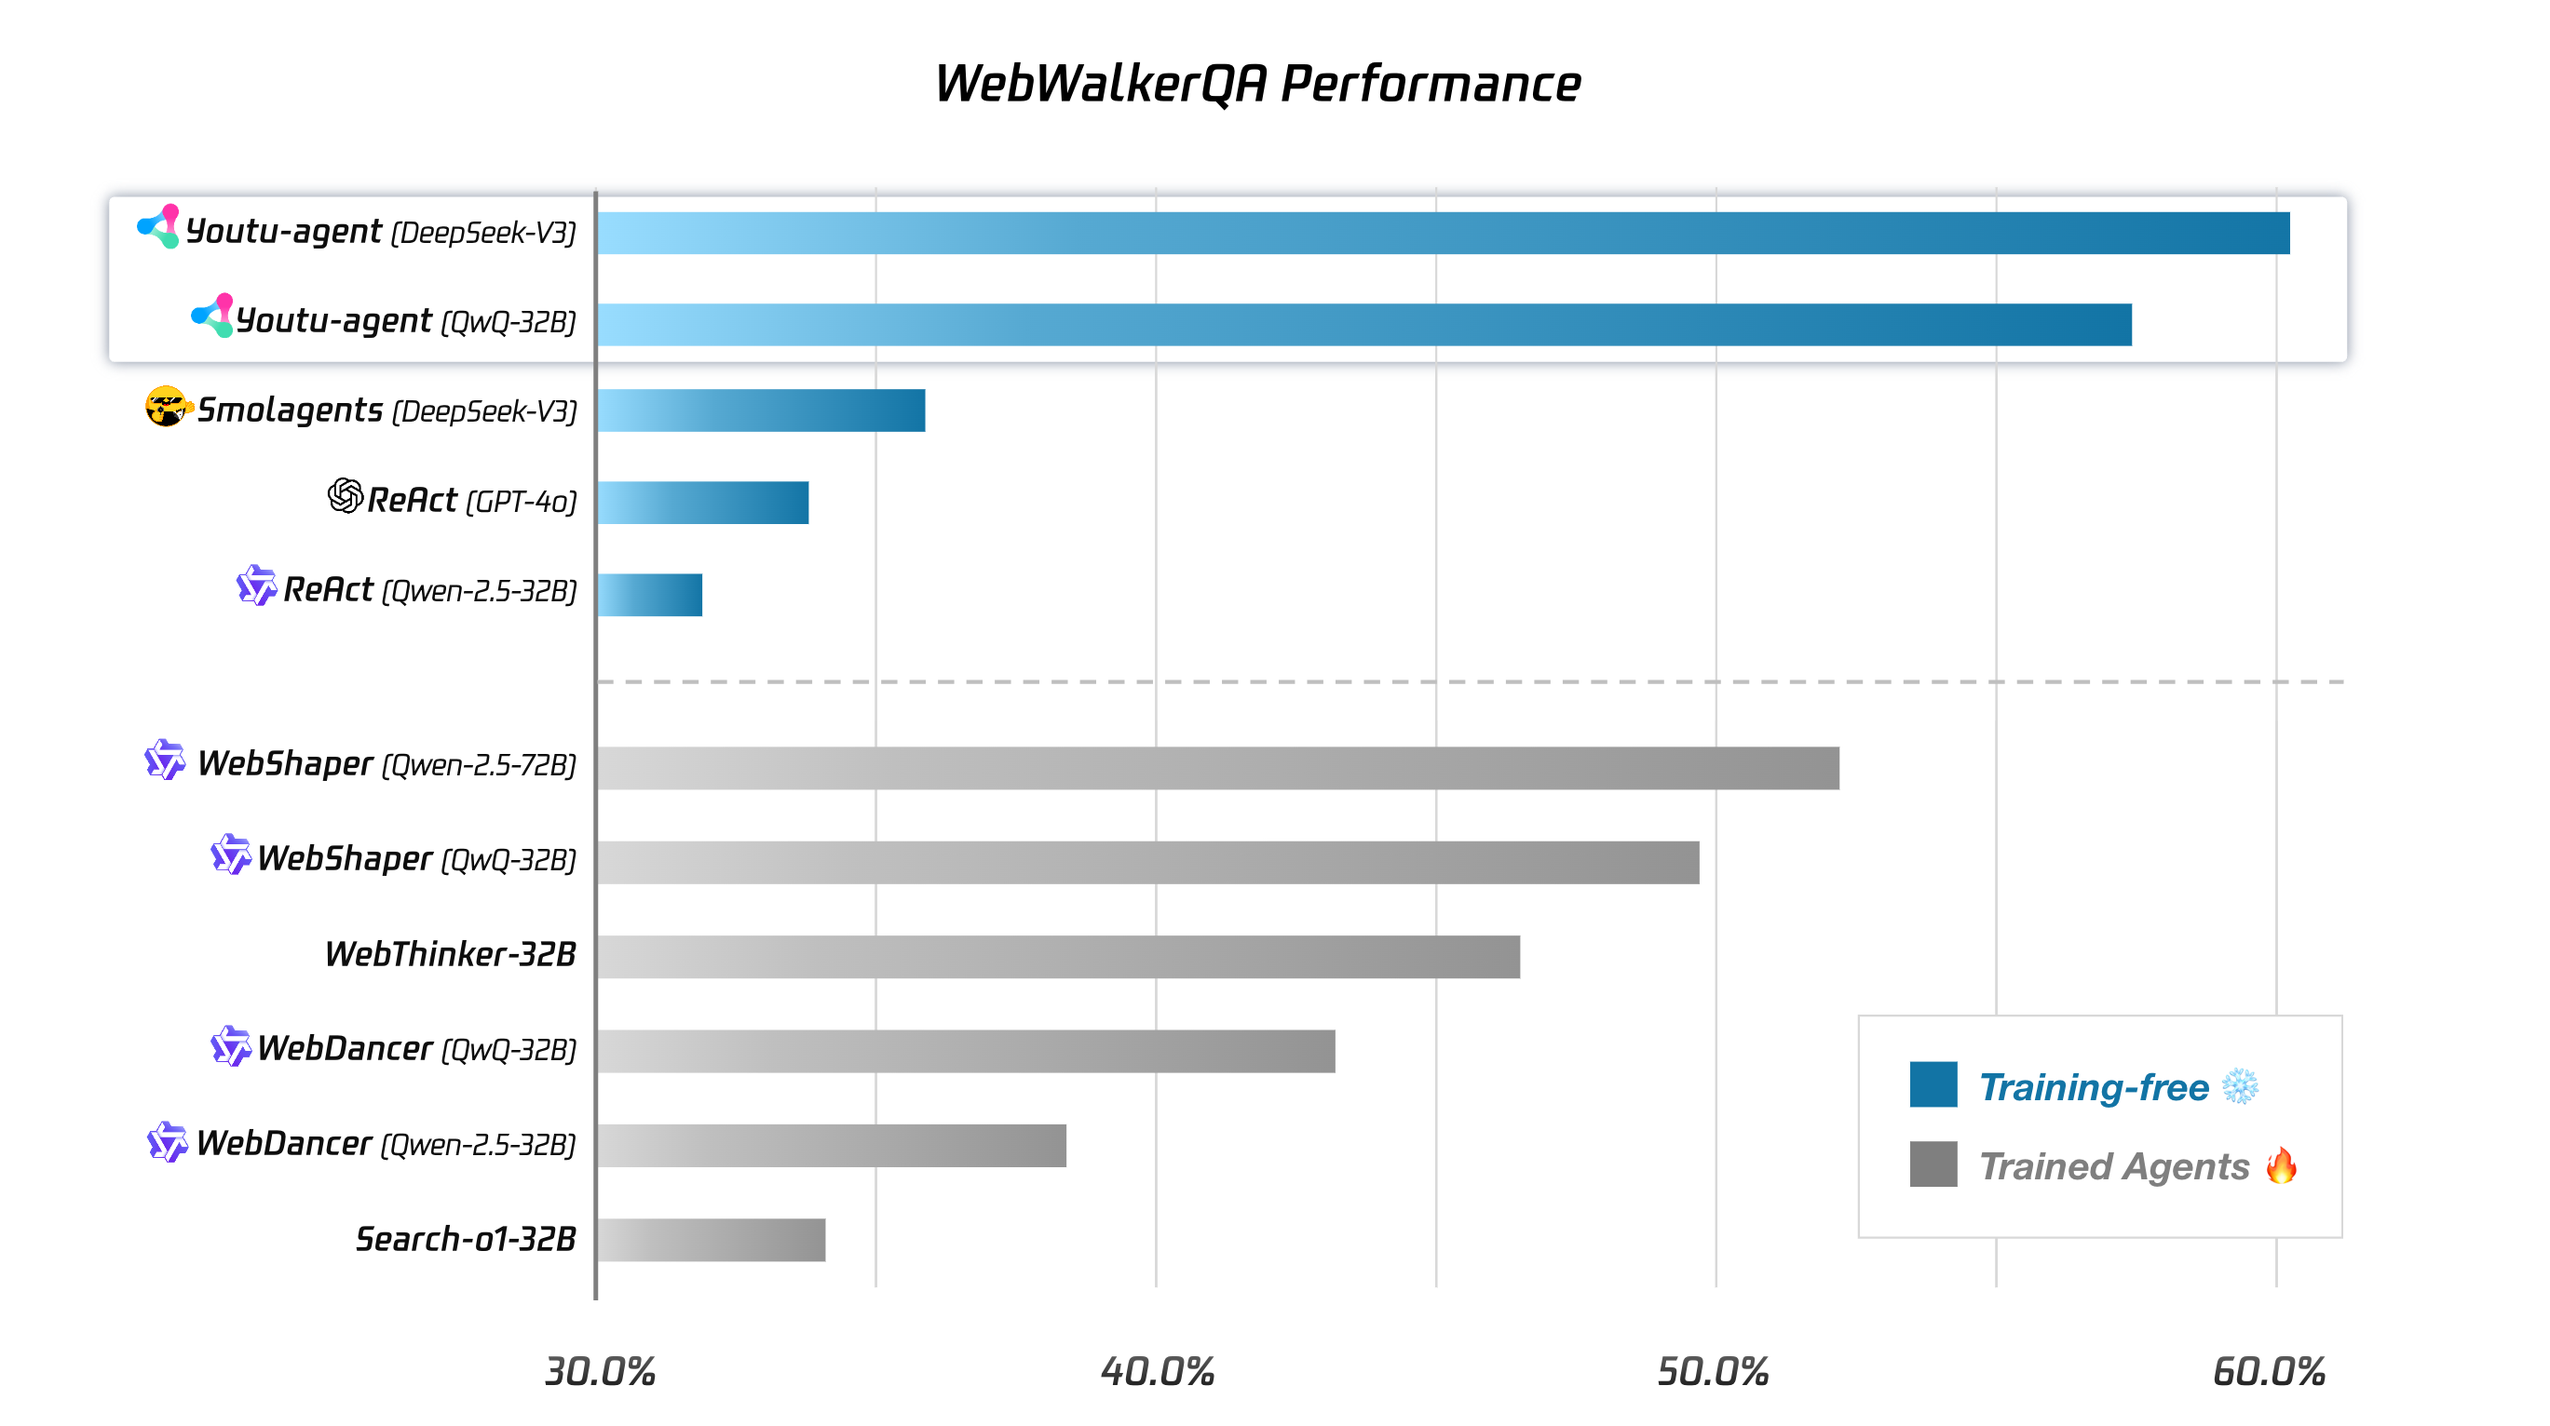
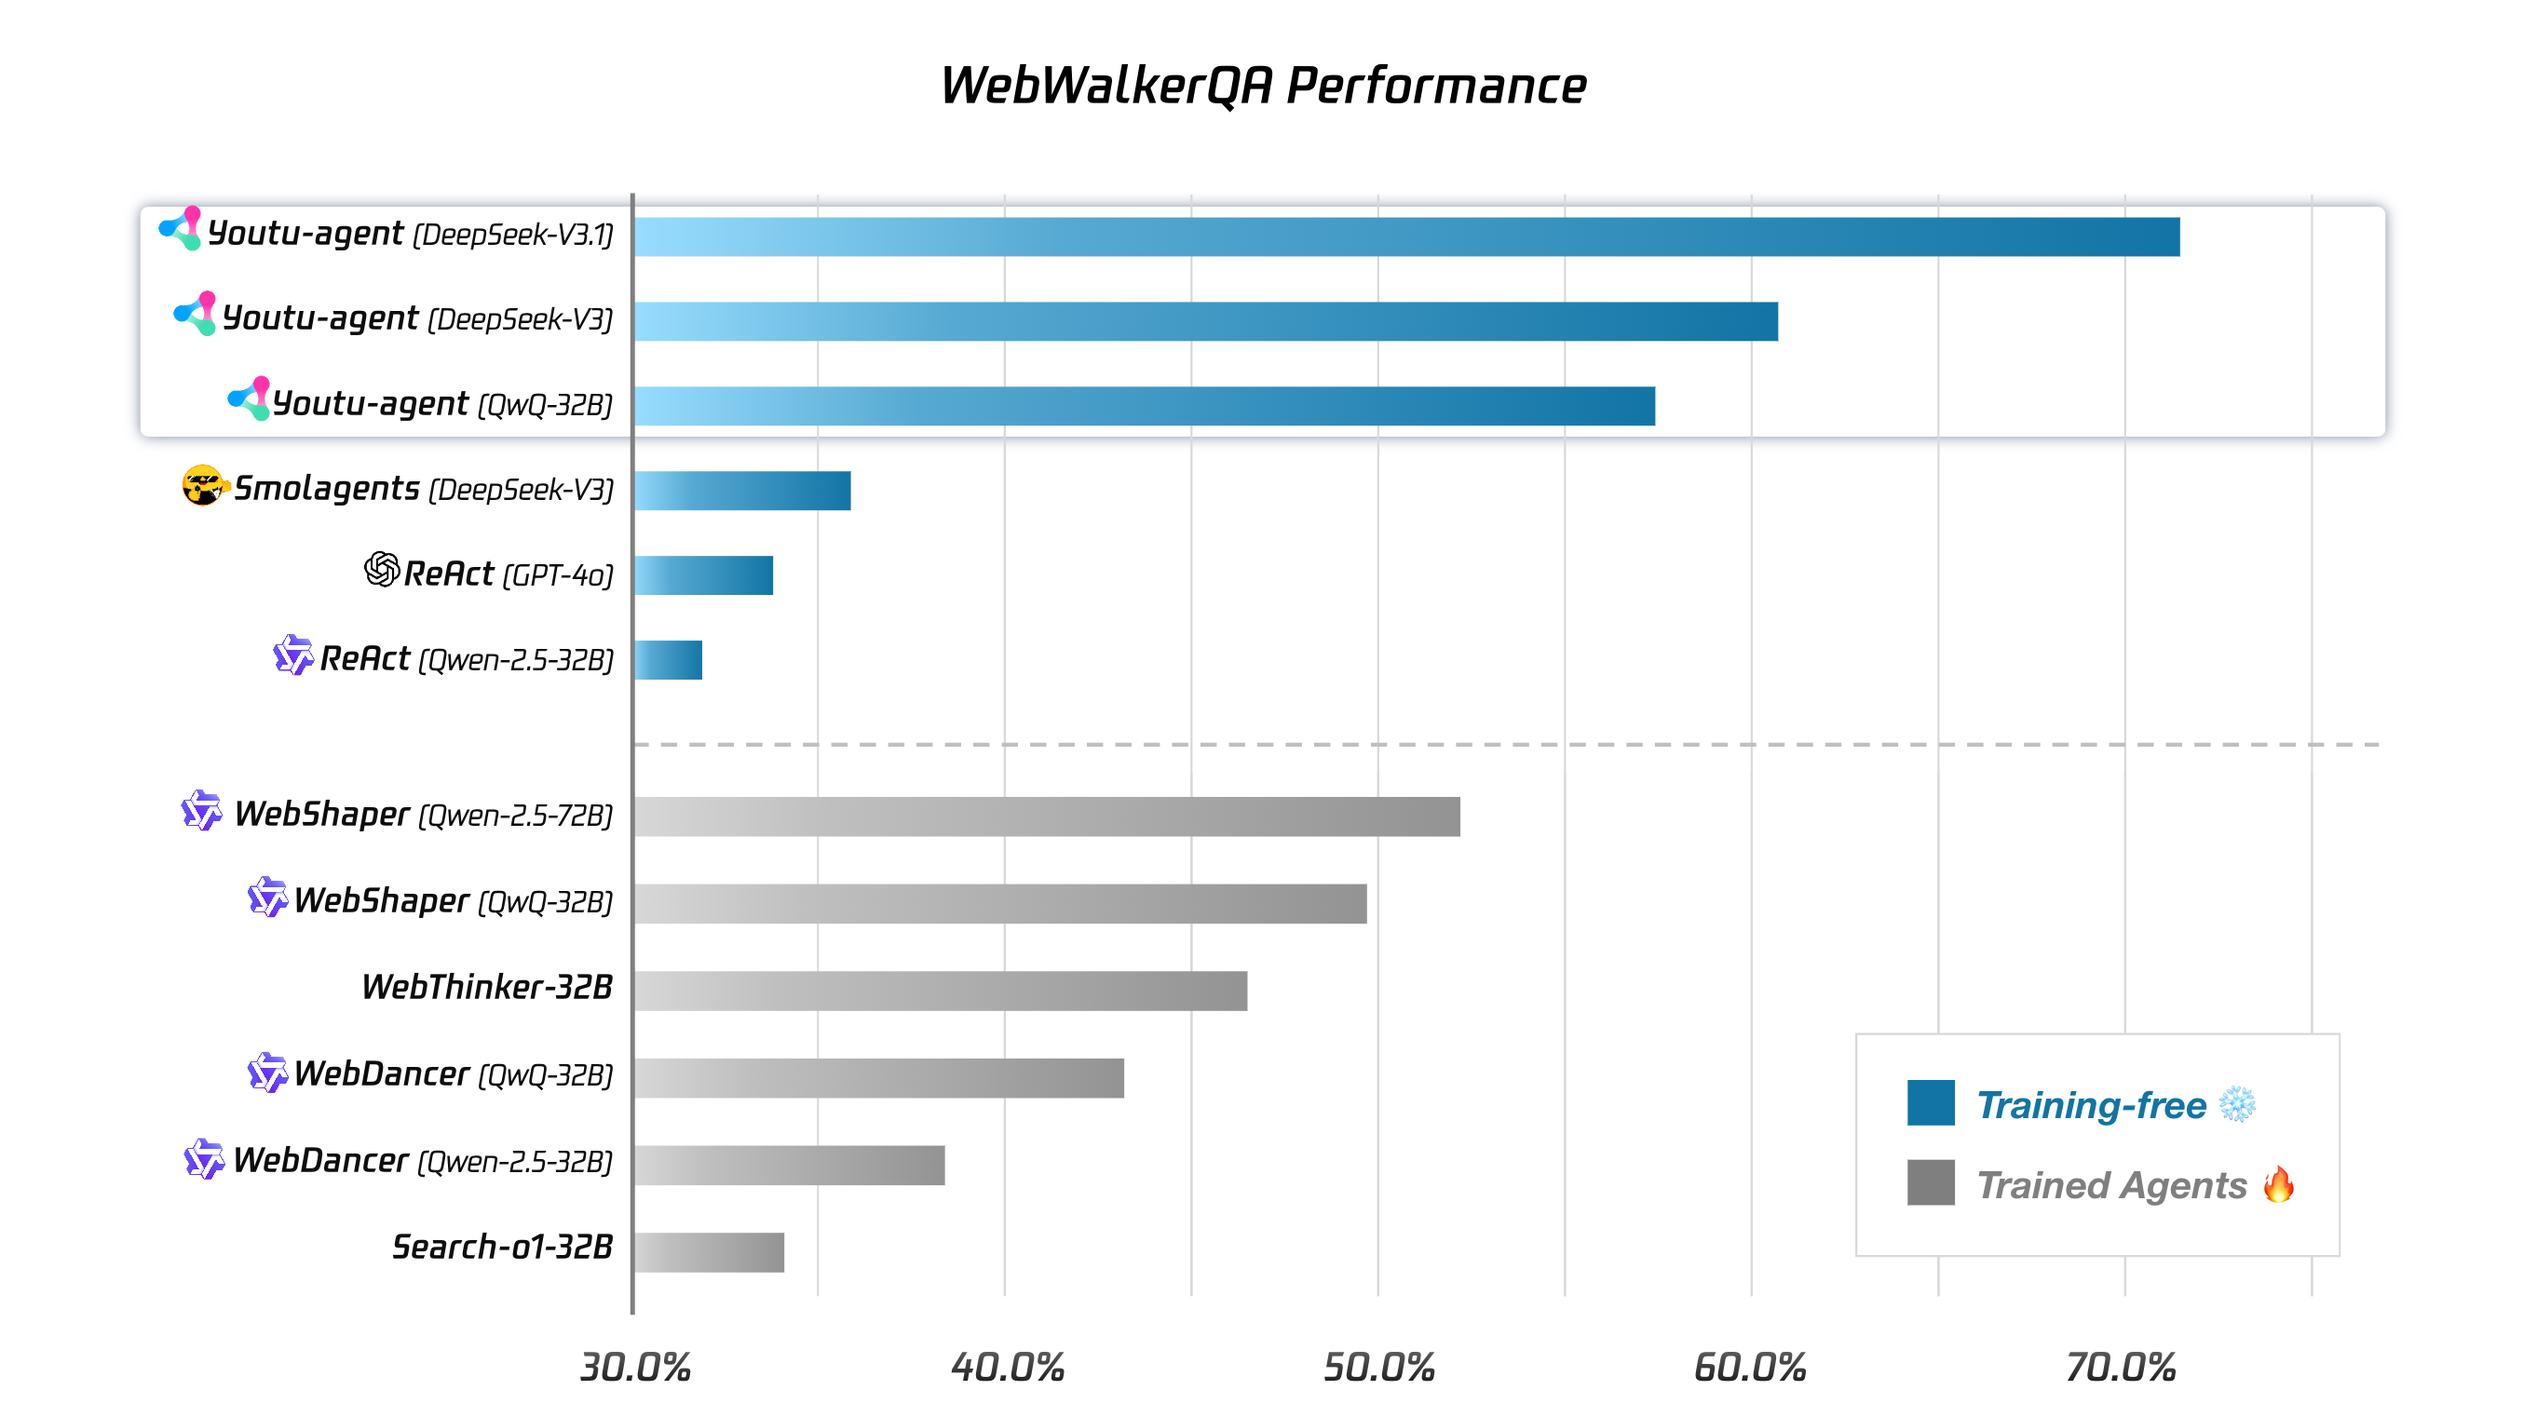
update README

diff --git a/README.md b/README.md
@@ -7,6 +7,7 @@
 </div>
 
 <p align="center">
+| <a href="README_ZH.md"><b>🇨🇳 中文版</b></a>
 | <a href="#-benchmark-performance"><b>🌟 Performance</b></a> 
 | <a href="#-examples"><b>💡 Examples</b> </a> 
 | <a href="#-features"><b>✨ Features</b> </a> 
@@ -20,10 +21,10 @@
 <img src="docs/assets/mascot.png" alt="Youtu-agent Logo" width="200" align="left" style="margin-right:20px;">
 
 Key highlights:
-- **Verified performance**: Achieved 71.47% on WebWalkerQA and 72.8% on GAIA (text-only subset), using purely `DeepSeek-V3` series models (without Claude or GPT).
+- **Verified performance**: Achieved 71.47% on WebWalkerQA and 72.8% on GAIA (text-only subset), using purely `DeepSeek-V3` series models (without Claude or GPT), establishing a strong open-source starting point.
 - **Open-source friendly & cost-aware**: Optimized for accessible, low-cost deployment without reliance on closed models.
-- **Practical use cases**: Out-of-the-box support for tasks like CSV analysis, literature review, personal file organization, and podcast and video generation.
-- **Flexible architecture**: Built on [openai-agents](https://github.com/openai/openai-agents-python), compatible with both `responses` and `chat.completions` APIs, supporting `DeepSeek` and `gpt-oss` models.
+- **Practical use cases**: Out-of-the-box support for tasks like CSV analysis, literature review, personal file organization, and podcast and video generation (coming soon).
+- **Flexible architecture**: Built on [openai-agents](https://github.com/openai/openai-agents-python), with extensible support for diverse model APIs (form `DeepSeek` to `gpt-oss`), tool integrations, and framework implementations.
 - **Automation & simplicity**: YAML-based configs, auto agent generation, and streamlined setup reduce manual overhead.
 
 ## 🌟 Benchmark Performance
@@ -31,7 +32,7 @@ Key highlights:
 `Youtu-agent` is built on open-source models and lightweight tools, demonstrating strong results on challenging deep search and tool use benchmarks.
 
 - **[WebWalkerQA](https://huggingface.co/datasets/callanwu/WebWalkerQA)**: Achieved 60.71% accuracy with `DeepSeek-V3-0324`， using new released `DeepSeek-V3.1` can further improve to 71.47%, setting a new SOTA performance.
-- **[GAIA](https://gaia-benchmark-leaderboard.hf.space/)**: Achieved 72.8% accuracy on the text-only validation subset using `DeepSeek-V3-0324` (including models used within tools). We are actively extending evaluation to the full GAIA benchmark with multimodal tools, and conducting cross-framework experiments to ensure fair comparison, and will release the related code and data in the near future.
+- **[GAIA](https://gaia-benchmark-leaderboard.hf.space/)**: Achieved 72.8% accuracy on the [text-only validation subset](https://github.com/sunnynexus/WebThinker/blob/main/data/GAIA/dev.json) using `DeepSeek-V3-0324` (including models used within tools). We are actively extending evaluation to the full GAIA benchmark with multimodal tools, and will release the trajectories in the near future. Stay tuned! ✨
 
 ![WebWalkerQA](docs/assets/images/benchmark_webwalkerqa.png)
 
@@ -70,6 +71,23 @@ Click on the images to view detailed videos.
   </tr>
 </table>
 
+### 🤖 Automatic Agent Generation
+
+A standout feature of `Youtu-agent` is its ability to **automatically generate agent configurations**. In other frameworks, defining a task-specific agent often requires writing code or carefully crafting prompts. In contrast, `Youtu-agent` uses simple YAML-based configs, which enables streamlined automation: a built-in "meta-agent" chats with you to capture requirements, then generates and saves the config automatically.
+
+```bash
+# Interactively clarify your requirements and auto-generate a config
+python scripts/gen_simple_agent.py
+
+# Run the generated config
+python scripts/cli_chat.py --stream --config generated/xxx
+```
+
+<a href="https://www.youtube.com/watch?v=JVpHDJtKBo8">
+  <img src="https://github.com/user-attachments/assets/2a185840-732c-48df-a72f-837c836318d1" width="420" height="236">
+</a>
+
+
 For more detailed examples and advanced use-cases, please refer to the [`examples`](./examples) directory and our comprehensive documentation at [`docs/examples.md`](./docs/examples.md).
 
 
@@ -86,7 +104,7 @@ For more detailed examples and advanced use-cases, please refer to the [`example
 ### Core Features
 - **Built on openai-agents**: Leveraging the foundation of [openai-agents](https://github.com/openai/openai-agents-python) SDK, our framework inherits streaming, tracing, and agent-loop capabilities, ensuring compatibility with both `responses` and `chat.completions` APIs for seamless adaptation to diverse models like [gpt-oss](https://github.com/openai/gpt-oss).
 - **Fully asynchronous**: Enables high-performance and efficient execution, especially beneficial for evaluating benchmarks.
-- **Tracing & analysis system**: Beyond OTEL, our `DBTracingProcessor` system provides in-depth analysis of tool calls and agent trajectories.
+- **Tracing & analysis system**: Beyond OTEL, our `DBTracingProcessor` system provides in-depth analysis of tool calls and agent trajectories. (will be released soon)
 
 ### Automation
 - **YAML based configuration**: Structured and easily manageable agent configurations.
@@ -105,7 +123,7 @@ For more detailed examples and advanced use-cases, please refer to the [`example
 
 ### For Agents Researchers & LLM Trainers
 - A **simple yet powerful baseline** that is stronger than basic ReAct, serving as an excellent starting point for model training and ablation studies.
-- **Built-in support for common benchmarks** and one-click evaluation scripts to streamline the experimental process.
+- **One-click evaluation scripts** to streamline the experimental process and ensure consistent benchmarking.
 
 ### For Agent Application Developers
 - A **proven and portable scaffolding** for building real-world agent applications.
@@ -124,6 +142,8 @@ For more detailed examples and advanced use-cases, please refer to the [`example
 - **Environment**: The world in which the agent operates (e.g., a browser, a shell).
 - **ContextManager**: A configurable module for managing the agent's context window.
 - **Benchmark**: An encapsulated workflow for a specific dataset, including preprocessing, rollout, and judging logic.
+
+For more design and implementation details, please refer to our [technical documentation](https://tencent.github.io/Youtu-agent/).
 
 ## 🚀 Getting Started
 

diff --git a/README_ZH.md b/README_ZH.md
@@ -7,6 +7,7 @@
 </div>
 
 <p align="center">
+| <a href="README.md"><b>🇺🇸 English</b></a>
 | <a href="#-基准性能"><b>🌟 性能</b></a> 
 | <a href="#-示例"><b>💡 示例</b> </a> 
 | <a href="#-特性"><b>✨ 特性</b> </a> 
@@ -20,10 +21,10 @@
 <img src="docs/assets/mascot.png" alt="Youtu-agent Logo" width="200" align="left" style="margin-right:20px;">
 
 主要亮点：
-- **验证性能**：在 WebWalkerQA 上达到 71.47% 的准确率，在 GAIA（纯文本子集）上达到 72.8% 的准确率，纯粹使用 `DeepSeek-V3` 系列模型（不使用 Claude 或 GPT）。
+- **验证性能**：在 WebWalkerQA 上达到 71.47% 的准确率，在 GAIA（纯文本子集）上达到 72.8% 的准确率，纯粹使用 `DeepSeek-V3` 系列模型（不使用 Claude 或 GPT），建立了强大的开源起点。
 - **开源友好且成本敏感**：针对可访问、低成本部署进行了优化，不依赖封闭模型。
-- **实际用例**：开箱即用地支持 CSV 分析、文献综述、个人文件整理以及播客和视频生成等任务。
-- **灵活的架构**：基于 [openai-agents](https://github.com/openai/openai-agents-python) 构建，兼容 `responses` 和 `chat.completions` API，支持 `DeepSeek` 和 `gpt-oss` 模型。
+- **实际用例**：开箱即用地支持 CSV 分析、文献综述、个人文件整理以及播客和视频生成等任务。（即将推出）
+- **灵活的架构**：基于 [openai-agents](https://github.com/openai/openai-agents-python) 构建，可兼容各种模型 API（从 `DeepSeek` 到 `gpt-oss`）、工具集成和框架实现。
 - **自动化与简洁性**：基于 YAML 的配置、自动智能体生成和简化的设置减少了手动开销。
 
 ## 🌟 基准性能
@@ -31,7 +32,7 @@
 `Youtu-agent` 基于开源模型和轻量级工具构建，在具有挑战性的深度搜索和工具使用基准测试中表现出色。
 
 - **[WebWalkerQA](https://huggingface.co/datasets/callanwu/WebWalkerQA)**：使用 `DeepSeek-V3-0324` 实现了 60.71% 的准确率，使用新发布的 `DeepSeek-V3.1` 可进一步提升至 71.47%，创造了新的 SOTA 性能。
-- **[GAIA](https://gaia-benchmark-leaderboard.hf.space/)**：使用 `DeepSeek-V3-0324`（包括工具中使用的模型）在纯文本验证子集上实现了 72.8% 的准确率。我们正在积极扩展对带有多模态工具的完整 GAIA 基准的评估，并进行跨框架实验以确保公平比较，将在近期放出相关代码和数据。
+- **[GAIA](https://gaia-benchmark-leaderboard.hf.space/)**：使用 `DeepSeek-V3-0324`（包括工具中使用的模型）在[纯文本验证子集](https://github.com/sunnynexus/WebThinker?tab=readme-ov-file#benchmarks)上实现了 72.8% 的准确率。我们正在积极扩展对带有多模态工具的完整 GAIA 基准的评估，将在近期放出完整轨迹，敬请关注！✨
 
 ![WebWalkerQA](docs/assets/images/benchmark_webwalkerqa.png)
 
@@ -68,6 +69,22 @@
   </tr>
 </table>
 
+### 🤖 自动智能体生成
+
+`Youtu-agent`的突出优势在于其**自动化生成智能体及其配置**的能力。在其他框架中，定义特定任务的智能体通常需要编写代码或是精心设计提示词，而`Youtu-agent`采用基于 YAML 的简洁配置方案，实现了高效自动化：内置的“元智能体”与用户对话并捕获需求，然后自动生成并保存配置。
+
+```bash
+# Interactively clarify your requirements and auto-generate a config
+python scripts/gen_simple_agent.py
+
+# Run the generated config
+python scripts/cli_chat.py --stream --config generated/xxx
+```
+
+<a href="https://www.youtube.com/watch?v=JVpHDJtKBo8">
+  <img src="https://github.com/user-attachments/assets/2a185840-732c-48df-a72f-837c836318d1" width="420" height="236">
+</a>
+
 更详细的示例和高级用例，请参阅 [`examples`](./examples) 目录和我们的文档 [`docs/examples.md`](./docs/examples.md)。
 
 ## ✨ 特性
@@ -82,7 +99,7 @@
 ### 核心功能
 - 基于openai-agents构建：利用 [openai-agents](https://github.com/openai/openai-agents-python) SDK 作为基础，我们的框架继承了 streaming、tracing 和 agent-loop 能力，确保了与 `responses` 和 `chat.completions` API 的兼容性，无缝适应 [gpt-oss](https://github.com/openai/gpt-oss) 等多样化模型。
 - 完全异步：这实现了高性能和高效执行，尤其有利于高效的评估。
-- 追踪与分析系统：除了 OTEL，我们的 `DBTracingProcessor` 系统提供了对工具调用和智能体轨迹的深入分析。
+- 追踪与分析系统：除了 OTEL，我们的 `DBTracingProcessor` 系统提供了对工具调用和智能体轨迹的深入分析。（即将发布）
 
 ### 自动化
 - 基于 YAML 的配置：这允许结构化且易于管理的智能体配置。
@@ -100,7 +117,7 @@
 
 ### 对于智能体研究人员和大型语言模型训练师
 - 一个**简单而强大的基线**，比基本的 ReAct 更强大，可作为模型训练和消融研究的绝佳起点。
-- **内置对常见基准的支持**和一键评估脚本，以简化实验过程。
+- **一键评估脚本**用以简化实验过程，并确保一致的基准测试。
 
 ### 对于智能体应用开发者
 - 一个**经过验证且可移植的脚手架**，用于构建真实的智能体应用程序。
@@ -118,6 +135,8 @@
 - **环境（Environment）**：智能体操作的世界（例如，浏览器、shell）。
 - **上下文管理器（ContextManager）**：一个可配置模块，用于管理智能体的上下文窗口。
 - **基准（Benchmark）**：一个针对特定数据集的封装工作流，包括预处理、执行和判断逻辑。
+
+更多的设计与实现细节，请参阅我们的[在线文档](https://tencent.github.io/Youtu-agent/)。
 
 ## 🚀 快速开始
 
